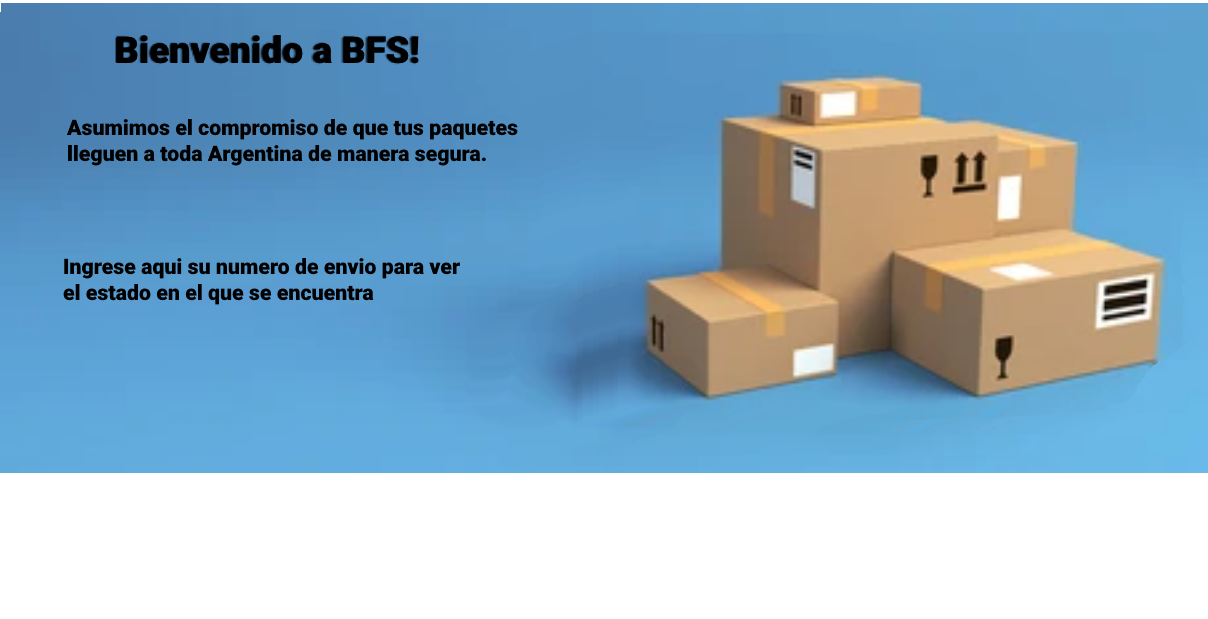
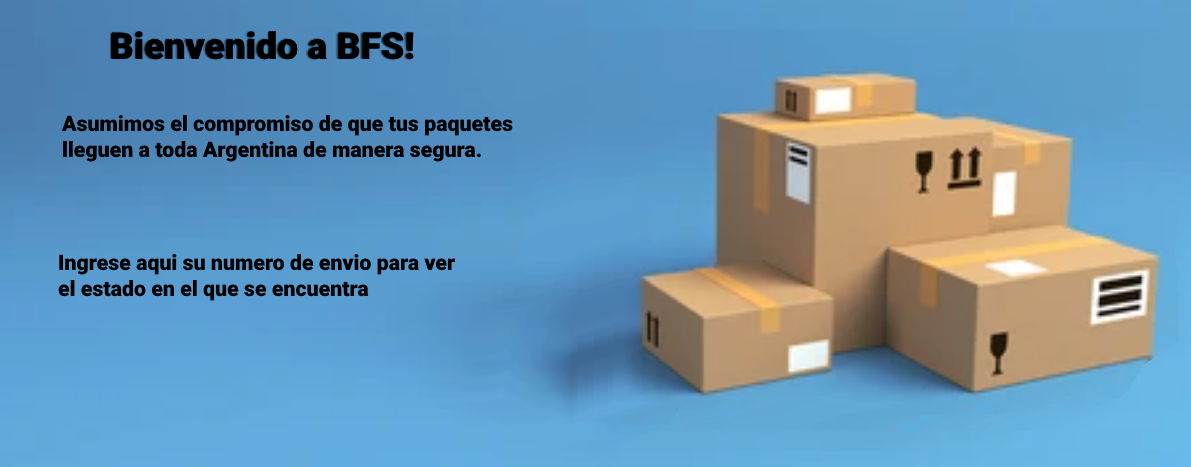
mm

diff --git a/Client/src/views/ErrorPage/errorpage.jsx b/Client/src/views/ErrorPage/errorpage.jsx
@@ -14,7 +14,7 @@ const ErrorPage = () => {
     <div>
       <img
         className="imgerror"
-        src="../../src/assets/conectores-hembra-vector-desenchufados-diseno-minimalista-404-bichos-sobre-fondo-blanco-tema-electrico-concepto-de-banner-web-corte-de-electricidad-perdida-de-conexion-vector-2ddpt5j.png"
+        src="https://i.pcmag.com/imagery/articles/04jAUMmQpJDt3aEZAQgEowt-2.fit_lim.v1623151030.jpg"
         alt="error"
       />
       <h2 className="hache2">Error 404</h2>

diff --git a/Client/src/components/seguimientoEnvio/style.js b/Client/src/components/seguimientoEnvio/style.js
@@ -8,7 +8,7 @@ const searcher = {
   width: "40pc",
   height: "5pc",
   fontSize: "x-large",
-  marginLeft: "85px",
+  marginLeft: "55px",
   marginTop: "30pc"
 };
 
